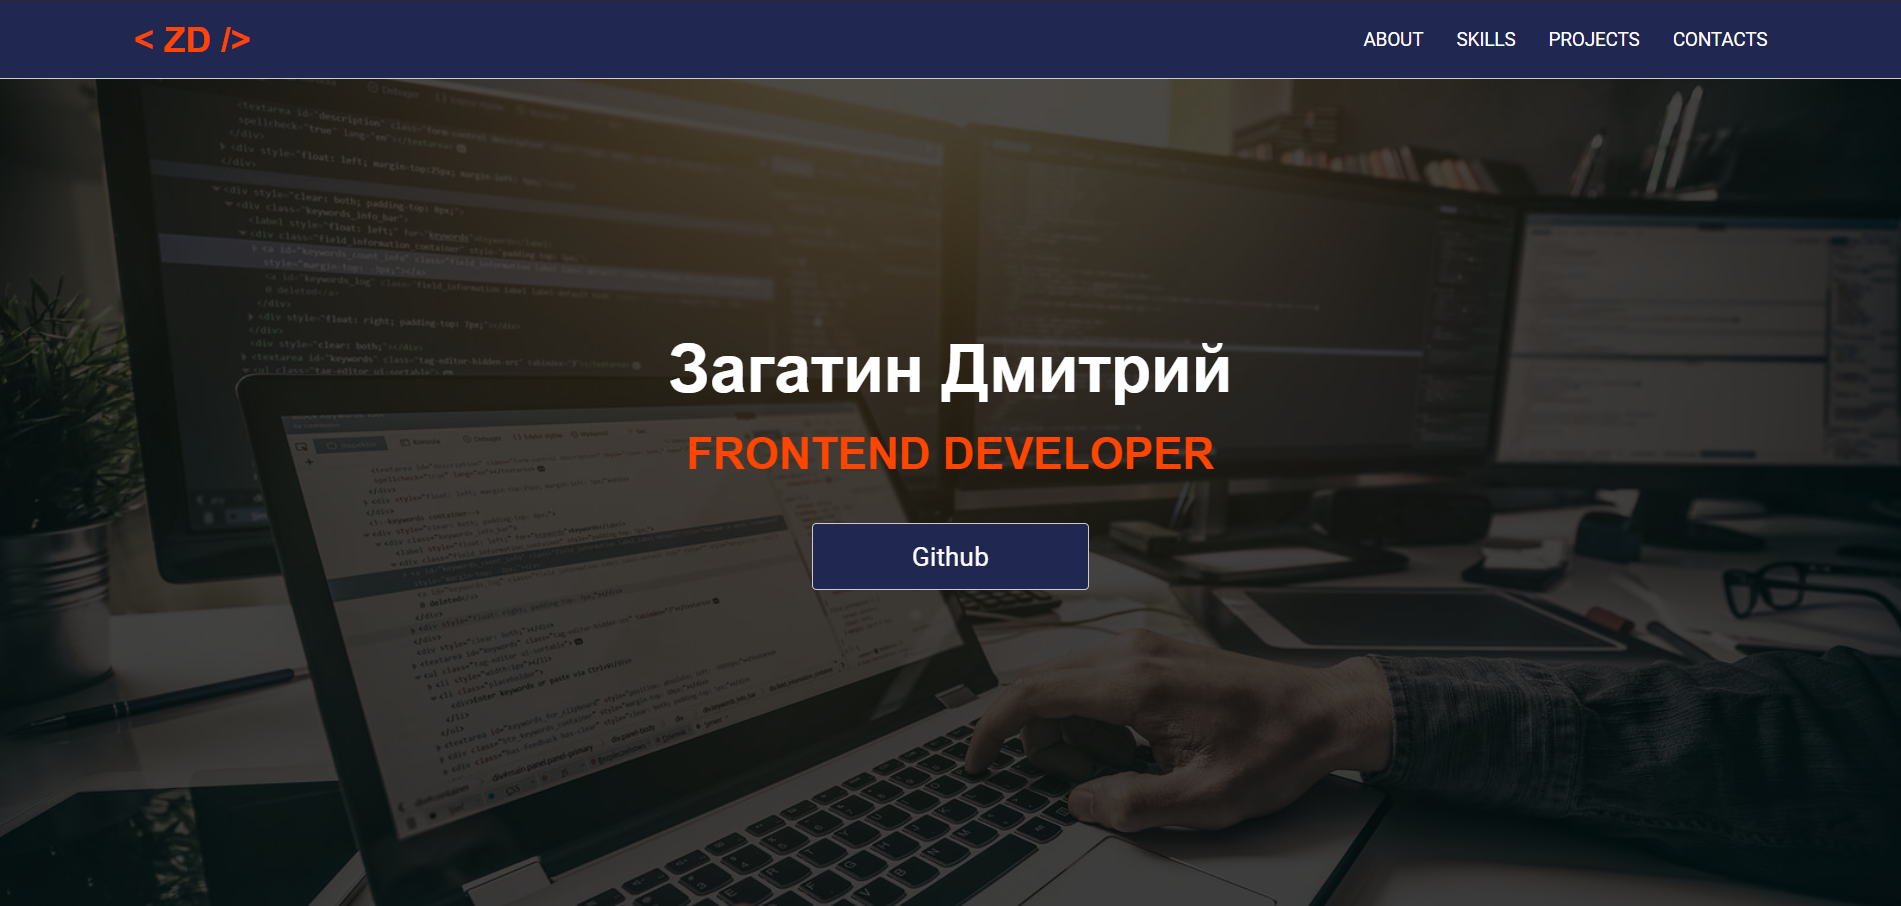
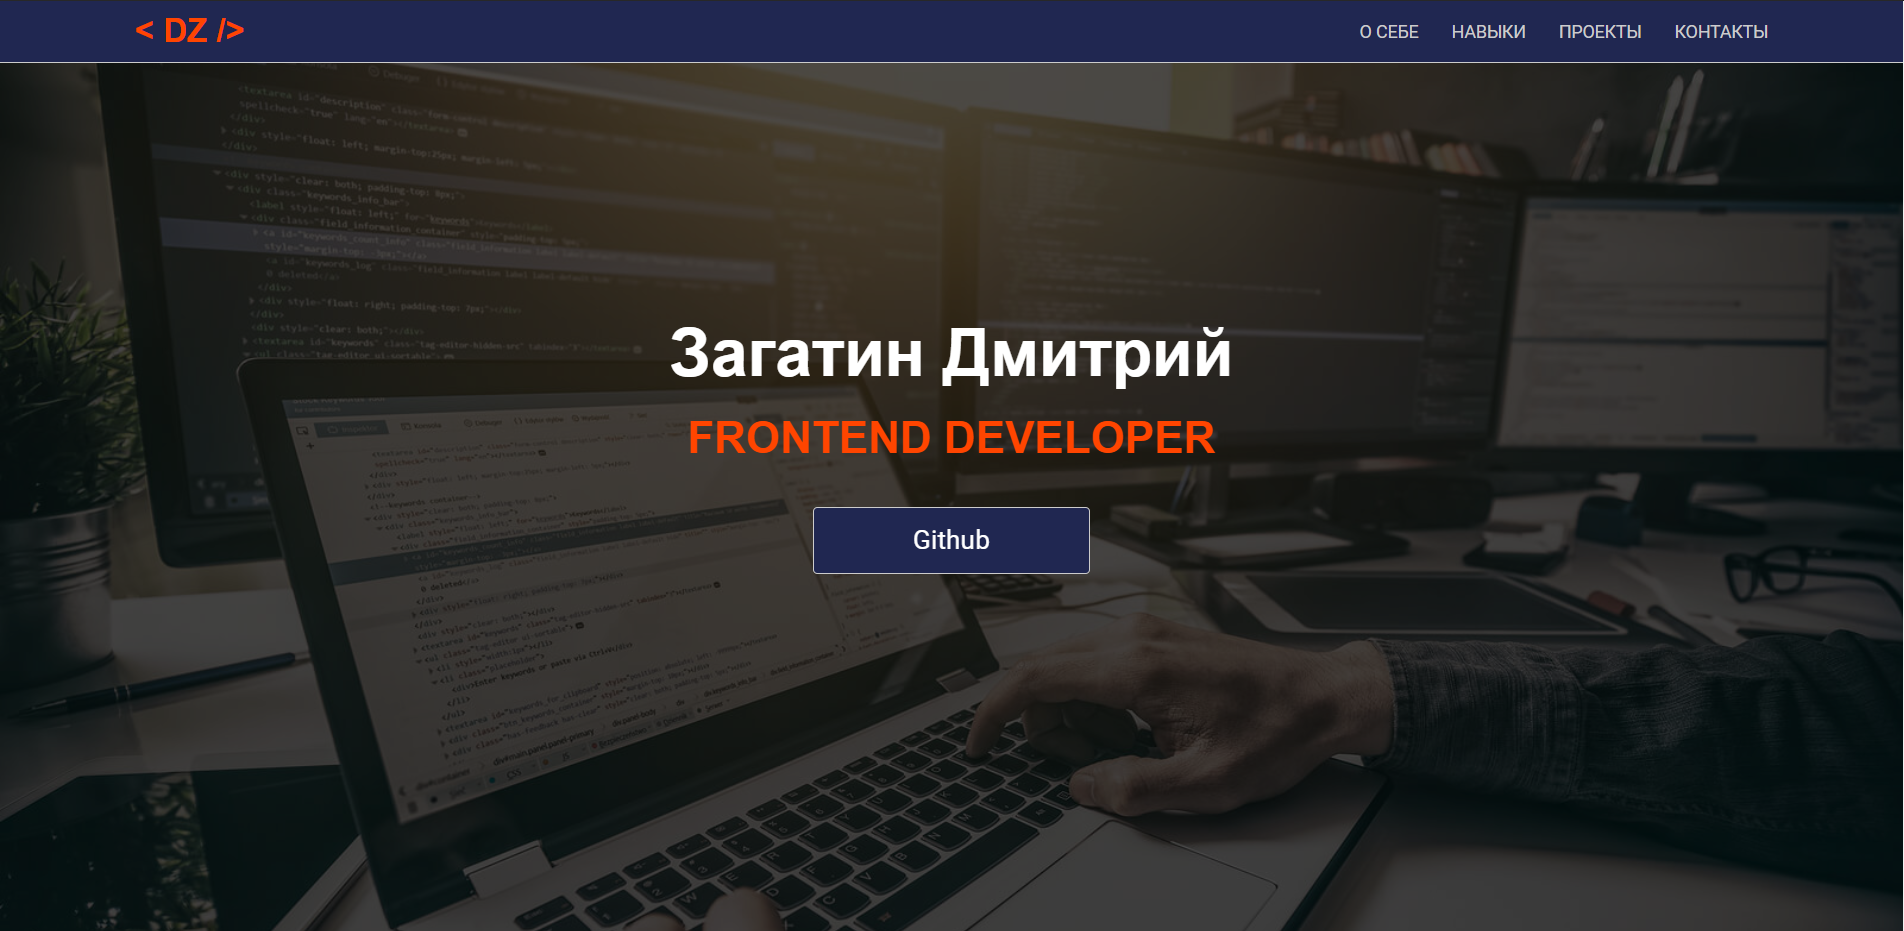
changed styles

diff --git a/src/index.html b/src/index.html
@@ -63,7 +63,7 @@
                                     </p>
                                     <h4>Кратко о себе</h4>
                                     <p>В свободное время практикуюсь с Frontend, посещаю тренажерный зал, играю на гитаре, смотрю трансляции блогеров-программистов :)</p>
-                                    <p>Стремлюсь всегда развивать свои навыки как в разработке, так и в дургих своих увлечениях. </p>
+                                    <p>Стремлюсь всегда развивать свои навыки как в разработке, так и в других своих увлечениях. </p>
                                 </div>
                             </div>
                         </div>
@@ -103,7 +103,7 @@
                                             роутинг(SPA), создание и сохранение множества таблиц, удаление таблиц.
                                         </p>
                                         <p>
-                                            Создана небольшая библиотека(в стиле Jquery) собственный "фреймворк", состояние для каждой таблицы(аналог Redux), так же сохраниние его в LocalStorage.
+                                            Создана небольшая библиотека(в стиле Jquery) и собственный "фреймворк", состояние для каждой таблицы(аналог Redux), так же сохраниние его в LocalStorage.
                                         </p>
                                         <p>Я получил море практики и понимание того как проектируются приложения на чистом JS.</p>
                                         <div class="btn-group">

diff --git a/src/css/about.css b/src/css/about.css
@@ -2,25 +2,30 @@
     border-top: 1px solid #ccc;
 }
 #about .about-content {
-    margin-top: 50px;
+    margin: 10px auto;
     display: flex;
     justify-content: space-around;
 }
 
 .about-img,.about-text {
-    width: 46%;
+    width: 70%;
+}
+
+.about-img {
+    width: 40%;
 }
 
 .about-img img {
+    display: block;
     border-radius: 12px;
-    width: 75%;
+    width: 90%;
 }
 
 .about-text p {
-    line-height: 28px;
-    font-size: 22px;
-    margin-top: 20px;
-    text-align: justify;
+    line-height: 25px;
+    font-size: 20px;
+    margin-top: 15px;
+    text-align: left;
 }
 
 .about-text a {
@@ -28,7 +33,7 @@
 }
 
 .about-text h4 {
-    font-size: 30px;
+    font-size: 26px;
     padding: 20px 0;
     border-bottom: 1px solid #ccc;
 }
@@ -42,7 +47,7 @@
 
 @media screen and (max-width: 1024px){
     .about-text p {
-        font-size: 18px;
+        font-size: 16px;
     }
 }
 
@@ -57,6 +62,9 @@
         display: block;
         margin: 0 auto;
         width: 70%;
+    }
+    .about-text p {
+        text-align: left;
     }
     .about-text {
         width: 100%;

diff --git a/src/css/header.css b/src/css/header.css
@@ -14,7 +14,7 @@
     z-index: 2;
     display: flex;
     justify-content: space-between;
-    height: 70px;
+    height: 55px;
     align-items: center;
 }
 
@@ -34,9 +34,9 @@
 
 .navigation menu li a {
     text-decoration: none;
-    color: #fff;
+    color: #ccc;
     text-transform: uppercase;
-    font-size: 17px;
+    font-size: 16px;
 }
 .navigation menu li a:hover {
     transition: all ease-in-out .4s;
@@ -55,7 +55,7 @@
 }
 
 .img-wrapp {
-    margin-top: 70px;
+    margin-top: 55px;
     width: 100%;
     height: 850px;
     position: relative;

diff --git a/src/css/main.css b/src/css/main.css
@@ -49,10 +49,10 @@ section {
 
 .section-title {
     width: 100%;
-    padding: 40px 0;
-    font-size: 50px;
+    padding: 25px 0;
+    font-size: 40px;
     text-align: center;
-    color: #fff;
+    color: #ccc;
     background: #202751;
 }
 

diff --git a/src/css/skills.css b/src/css/skills.css
@@ -12,7 +12,7 @@
 }
 
 .skills-list li {
-    font-size: 30px;
+    font-size: 26px;
     margin-bottom: 30px;
     border-bottom: 1px solid #ccc;
     padding: 5px;
